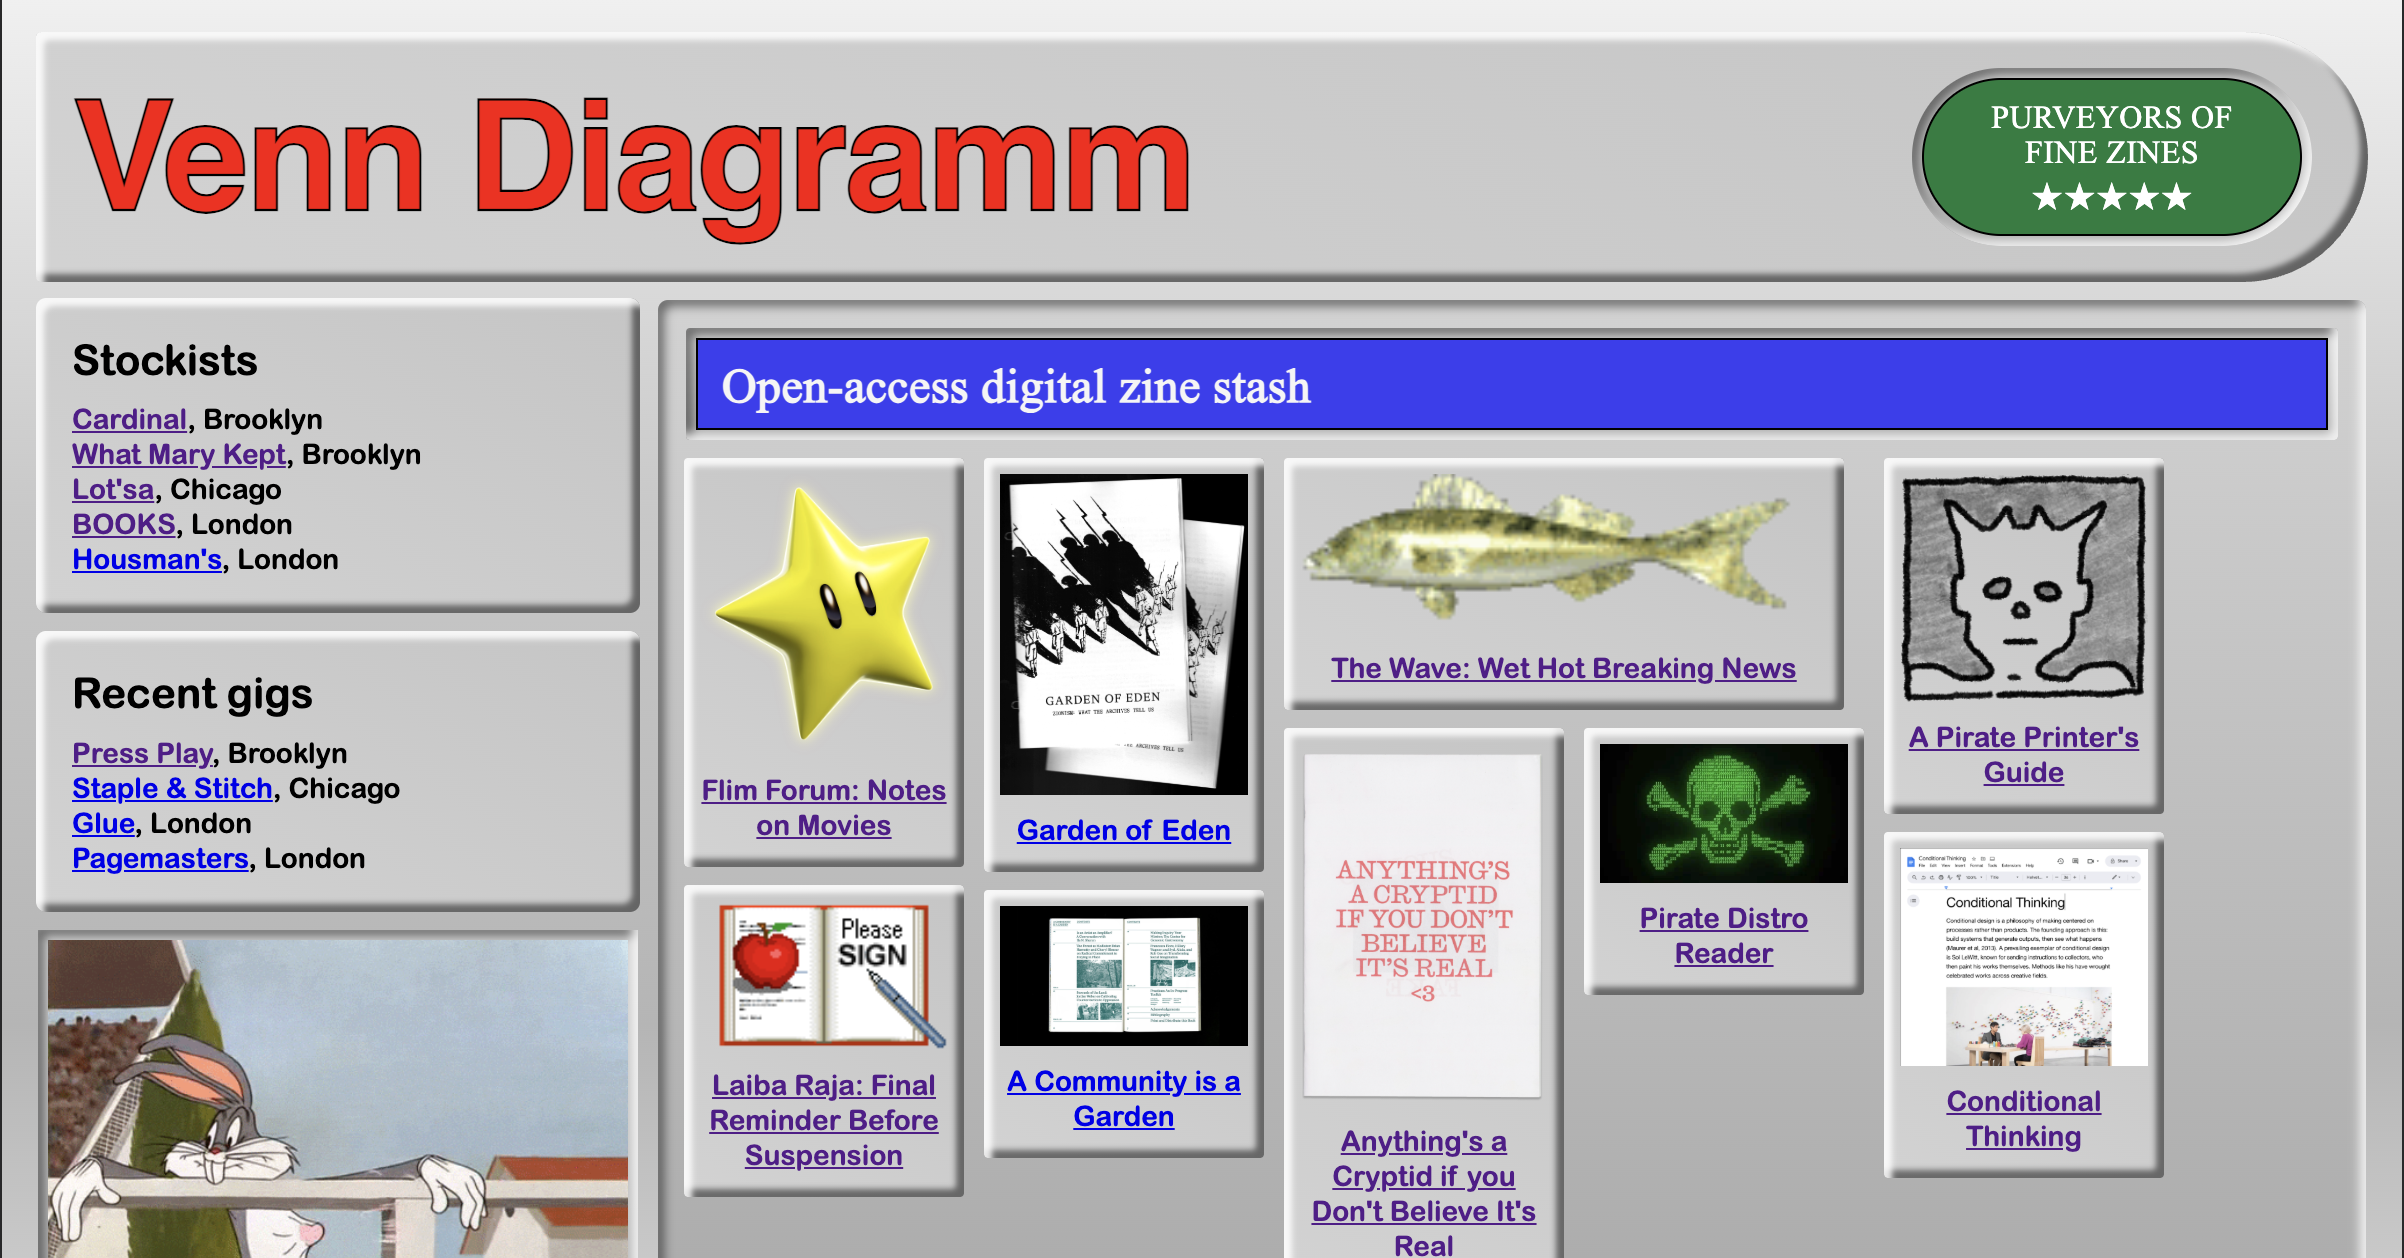
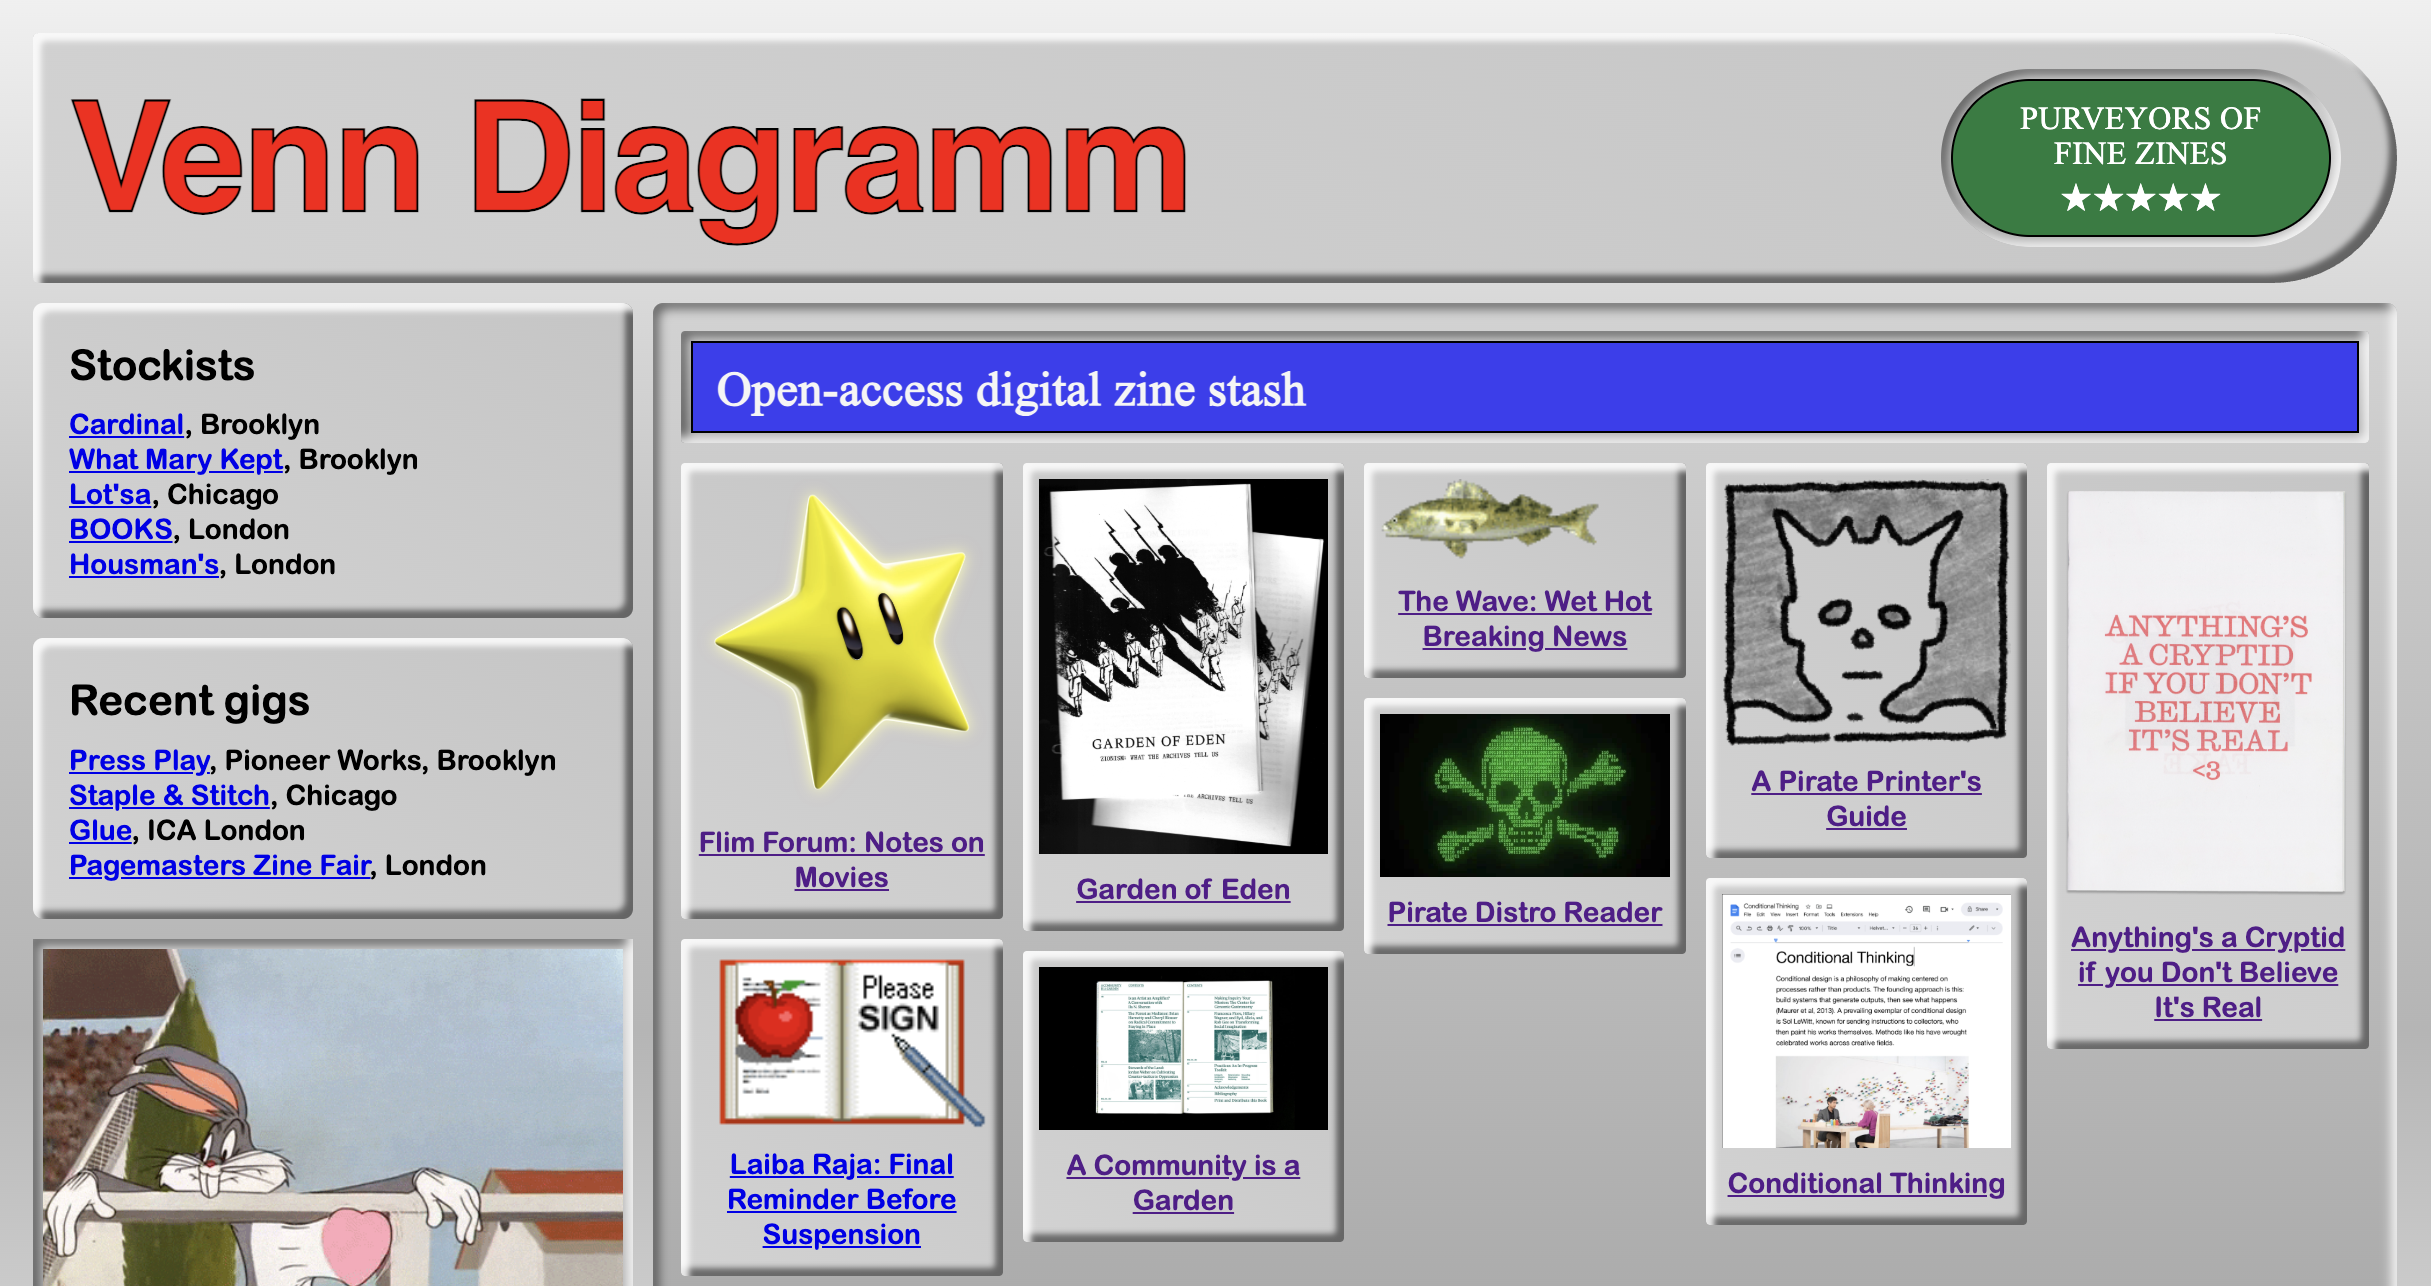
about page

diff --git a/index.html b/index.html
@@ -26,7 +26,15 @@
 
   <!-- Header -->
   <div class="header raised">
-     <h1>Venn Diagramm</h1>
+     <div>
+        <h1>Venn Diagramm</h1>
+        <div class="panel inset about-btn">
+        <div>
+            <h2>i</h2>
+        </div>
+    </div>
+     </div>
+    
      <div class="sticker panel inset">
         <div><span>Purveyors <wbr>of fine zines</span><span>★★★★★</span></div></div>
   </div>
@@ -48,14 +56,16 @@
         <a href="https://www.ica.art/talks/glue-ica-bookfair-and-creative-programme" target="_blank">Glue</a>, ICA London<br>
         <a href="https://www.arthub.org.uk/events/page-masters-2025" target="_blank">Pagemasters Zine Fair</a>, London<br>
     </div>
-    <div class="metal-panel inset panel-left gif">
+
+    <div class="panel inset gif">
     <img src="https://media1.giphy.com/media/v1.Y2lkPTc5MGI3NjExNWIydDVicWJzdHdzdTNoNWtnMW0zbzQ2d3J5ZzJieW9veWxuZG1mMyZlcD12MV9pbnRlcm5hbF9naWZfYnlfaWQmY3Q9Zw/1sSfhxzWHJ4vC/giphy.gif">
 </div>
 </div>
+
 <div class="panel inset">
-<div class="library sticker inset">
-   <div><h2>Open-access digital zine stash</h2></div>
-</div>
+    <div class="library sticker inset">
+        <div><h2>Open-access zine stash</h2></div>
+    </div>
 <section class="grid">
     <div class="grid-item grid-item raised">
         <img src="assets/thumbnails/flim-star.webp">
@@ -93,9 +103,24 @@
         <div class="grid-item raised">
         <img src="assets/thumbnails/CommunityGarden.jpg">
         <a href="https://drive.google.com/file/d/17mXDuR75pJJlVRo_9kXrneUY87ULarqD/view?usp=drive_link" target="_blank">A Community is a Garden</a>
-    </div>
+</div>
     </section>
-  </div>
+</div>
+<!--------------popup---------------->
+<div id="about" class="raised">
+    <div class="nav">
+        <h2>Information</h2>
+        <div id="close-popup-btn" class="inset">
+            <div>x</div>
+        </div>
+    </div>
+    <div class="inset">
+        <div class="content">
+        <p>Venn Diagramm is a multi-purpose creative project co-operated by Brooklyn-based designers Mikki Janower and Maddy Angstreich. Venn Di rejects modernity (design that greases the wheels of capitalism) and embraces tradition (making cool shit with our friends).</p>
+        <p>Get in touch if ya wanna.</p>
+        </div>
+    </div>
+</div>
 
   <!-- Footer strip -->
   <div class="footer inset">
@@ -113,5 +138,6 @@
 <script src="https://cdnjs.cloudflare.com/ajax/libs/jquery/3.7.1/jquery.js"></script>
 <script src="javascript.js"></script>
 <script src="masonry.pkgd.min.js"></script>
+<script src="https://cdnjs.cloudflare.com/ajax/libs/jqueryui/1.14.1/jquery-ui.min.js" integrity="sha512-MSOo1aY+3pXCOCdGAYoBZ6YGI0aragoQsg1mKKBHXCYPIWxamwOE7Drh+N5CPgGI5SA9IEKJiPjdfqWFWmZtRA==" crossorigin="anonymous" referrerpolicy="no-referrer"></script>
 </body>
 </html>

diff --git a/styles.css b/styles.css
@@ -186,6 +186,28 @@ h2{
   height:100%;
   overflow:hidden;
 }
+.header div:has(h1){
+  display:flex;
+  flex-direction:row;
+  align-items:flex-start;
+  gap:var(--half-gap);
+}
+.about-btn{
+  border-radius:120px;
+  padding:4px;
+  cursor:pointer;
+}
+.about-btn div{
+  position:relative;
+  padding:5px 15px 5px 15px;
+  border-radius:120px;
+  border:var(--outline);
+  height:100%;
+  background:yellow;
+}
+.about-btn h2{
+  padding-bottom:0;
+}
 /*------------------grid------------*/
 .grid{
   grid-column:2/span 2;
@@ -246,6 +268,56 @@ h2{
   background:white;
   padding:10px;
   box-sizing:border-box;
+}
+/*---------------'about' popup----------------*/
+
+/* The actual popup box, centered on the screen */
+#about {
+    display: none;
+    position: fixed;
+    z-index: 101;
+    filter: drop-shadow(4px 4px 8px rgba(0,0,0,.5));
+    padding:var(--gap);
+    width:60vw;
+    max-height:60vh;
+    overflow-y:scroll;
+    box-sizing:border-box;
+}
+
+/* CSS class to show the elements */
+.active {
+    display: block !important;
+}
+#about .nav{
+  display:flex;
+  flex-direction:row;
+  justify-content:space-between;
+  align-items:center;
+}
+#about .inset{
+  padding:var(--half-gap);
+}
+#about .content{
+  border:var(--outline);
+  padding:var(--gap);
+  background:white;
+}
+#about .content p{
+  margin-bottom:12px;
+}
+#about .content p:last-of-type{
+  margin-bottom:0px;
+}
+#close-popup-btn{
+  cursor:pointer;
+  padding:4px;
+  margin-bottom:var(--gap)
+}
+#close-popup-btn div{
+  text-align:center;
+  padding:4px 10px 6px 10px;
+  border:var(--outline);
+  background:yellow;
 }
 /* ====== Footer ====== */
 .footer {
@@ -346,6 +418,10 @@ h2{
     margin-top:-4px;
     text-align:right;
   }
+  #about{
+    width:84vw;
+    max-height:60vh;
+  }
 }
 @media screen and (max-width: 500px){
 .header{
@@ -360,4 +436,8 @@ h2{
   .header span:nth-of-type(2){
     display:none;
   }
+#about{
+  width:calc(100% - 36px);
+  max-height:80vh;
+}
 }

diff --git a/javascript.js b/javascript.js
@@ -74,6 +74,31 @@ $(function () {
   });
 
 });
+/*-----------------'about' popup controls----------------*/
+$(function() {
+        $( "#about" ).draggable();
+    });
+ // Open the popup when the "Open Popup" button is clicked
+    $('.about-btn').on('click', function() {
+        $('#about').addClass('active');
+    });
 
+    // Close the popup when the "Close" button or the overlay is clicked
+    $('#close-popup-btn').on('click', function() {
+        $('#about').removeClass('active');
+    });
+
+  const $panel = $('#about');
+  function centerPanel() {
+  const w = $panel.outerWidth();
+  const h = $panel.outerHeight();
+
+  $panel.css({
+    left: `calc(50% - ${w / 2}px)`,
+    top:  `calc(50% - ${h / 2}px)`
+  });
+}
+
+centerPanel();
 //-----------------------------document closing bracket; don't touch
 });
